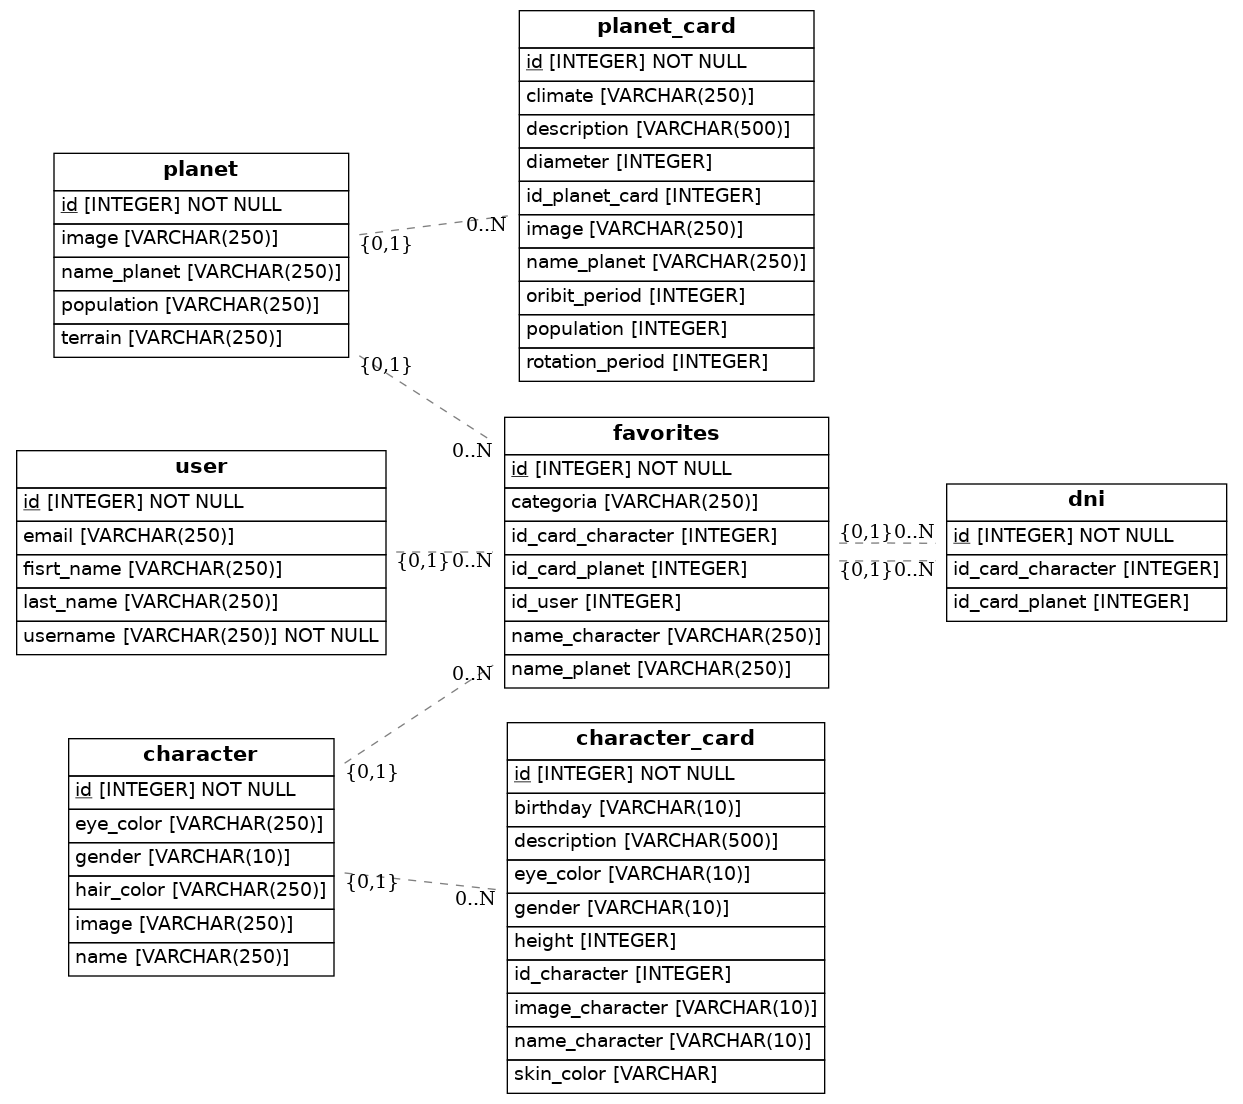
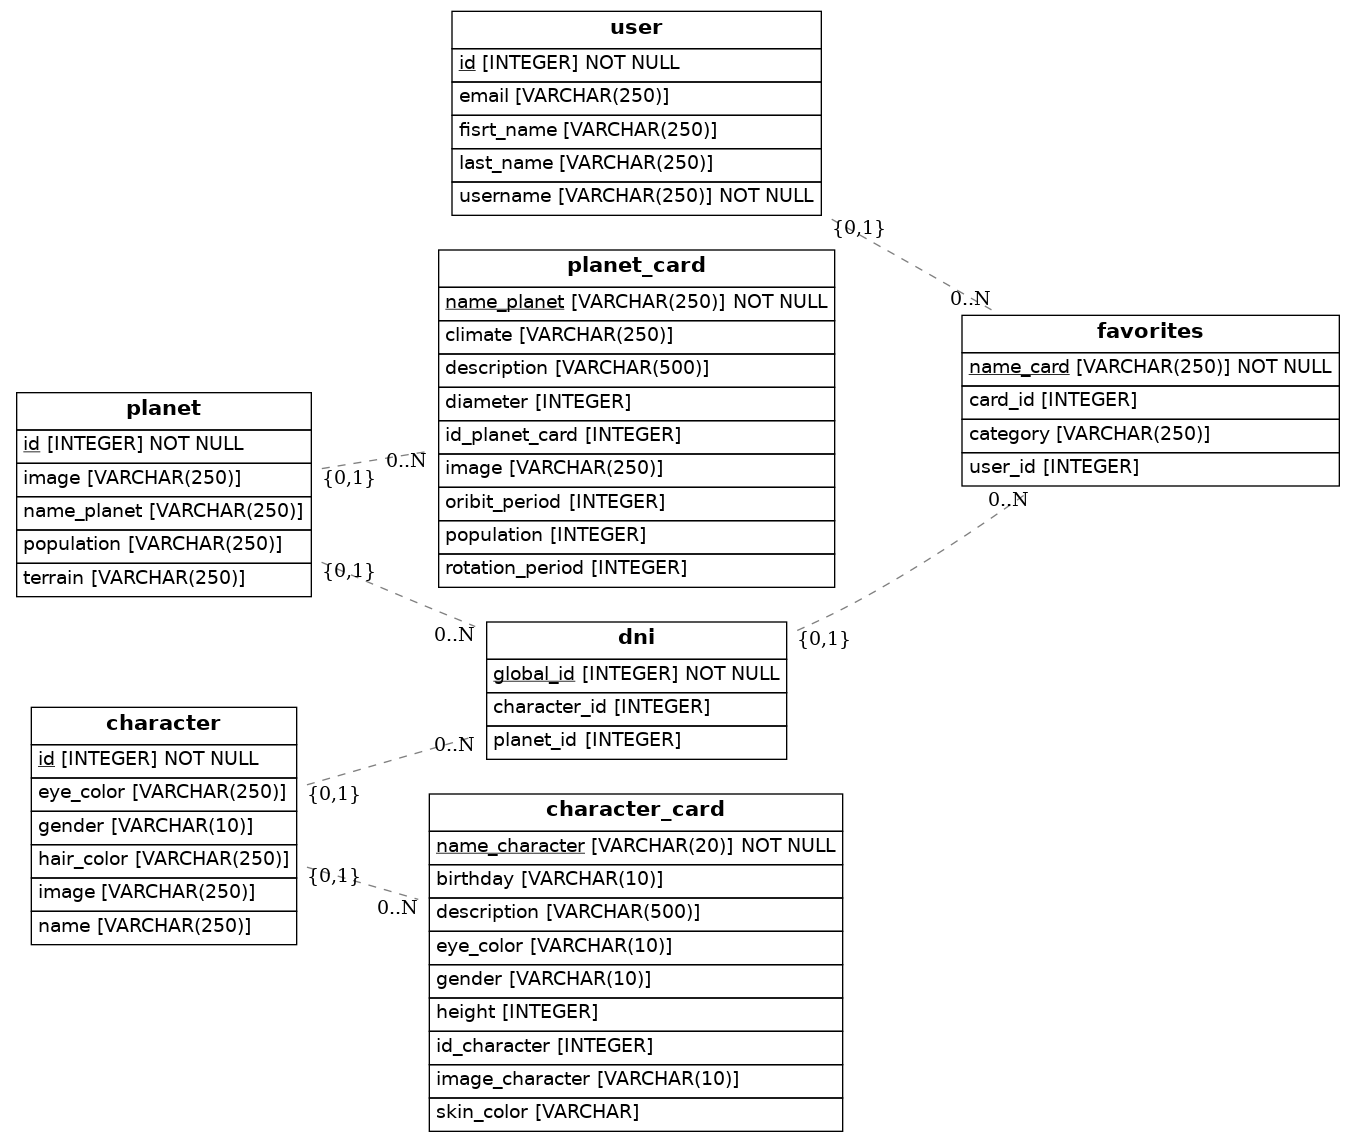
fixed structure

Changed region(s): [[0.0, 0.0, 1.0, 1.0], [0.7031, 0.2464, 0.7337, 0.2772]]

diff --git a/src/models.py b/src/models.py
@@ -20,20 +20,16 @@ class User(Base):
 
 class Favorites(Base):
     __tablename__ = 'favorites'
-    id = Column(Integer, primary_key=True)
-    id_user = Column(Integer, ForeignKey('user.id'))
-    id_card_character = Column(Integer, ForeignKey('character.id'))
-    name_character = Column(String(250))
-    id_card_planet = Column(Integer, ForeignKey('planet.id'))
-    name_planet = Column(String(250))
-    categoria = Column(String(250))
+    user_id = Column(Integer, ForeignKey('user.id'))
+    card_id = Column(Integer, ForeignKey('dni.global_id'))
+    name_card = Column(String(250), primary_key=True)
+    category = Column(String(250))
 
 class Dni(Base):
     __tablename__ = 'dni'
-    id = Column(Integer, primary_key=True)
-    id_card_character = Column(Integer, ForeignKey('favorites.id_card_character'))
-    id_card_planet = Column(Integer, ForeignKey('favorites.id_card_planet'))
-
+    character_id = Column(Integer, ForeignKey('character.id'))
+    planet_id = Column(Integer, ForeignKey('planet.id'))
+    global_id = Column(Integer, primary_key=True)
 
 class Planet(Base):
     __tablename__ = 'planet'
@@ -45,11 +41,9 @@ class Planet(Base):
 
 class Planet_Card(Base):
     __tablename__ = 'planet_card'
-    planet = relationship(Planet)
-    id = Column(Integer, primary_key=True)
     id_planet_card = Column(Integer, ForeignKey('planet.id'))
     image = Column(String(250))
-    name_planet = Column(String(250))
+    name_planet = Column(String(250), primary_key=True)
     description = Column(String(500))
     climate = Column(String(250))
     population = Column(Integer)
@@ -68,11 +62,9 @@ class Character(Base):
 
 class Character_Card(Base):
     __tablename__ = 'character_card'
-    id = Column(Integer, primary_key=True)
-    character = relationship(Character)
     id_character = Column(Integer, ForeignKey('character.id'))
     image_character = Column(String(10))
-    name_character = Column(String(10))
+    name_character = Column(String(20), primary_key=True)
     description = Column(String(500))
     birthday = Column(String(10))
     gender = Column(String(10))
